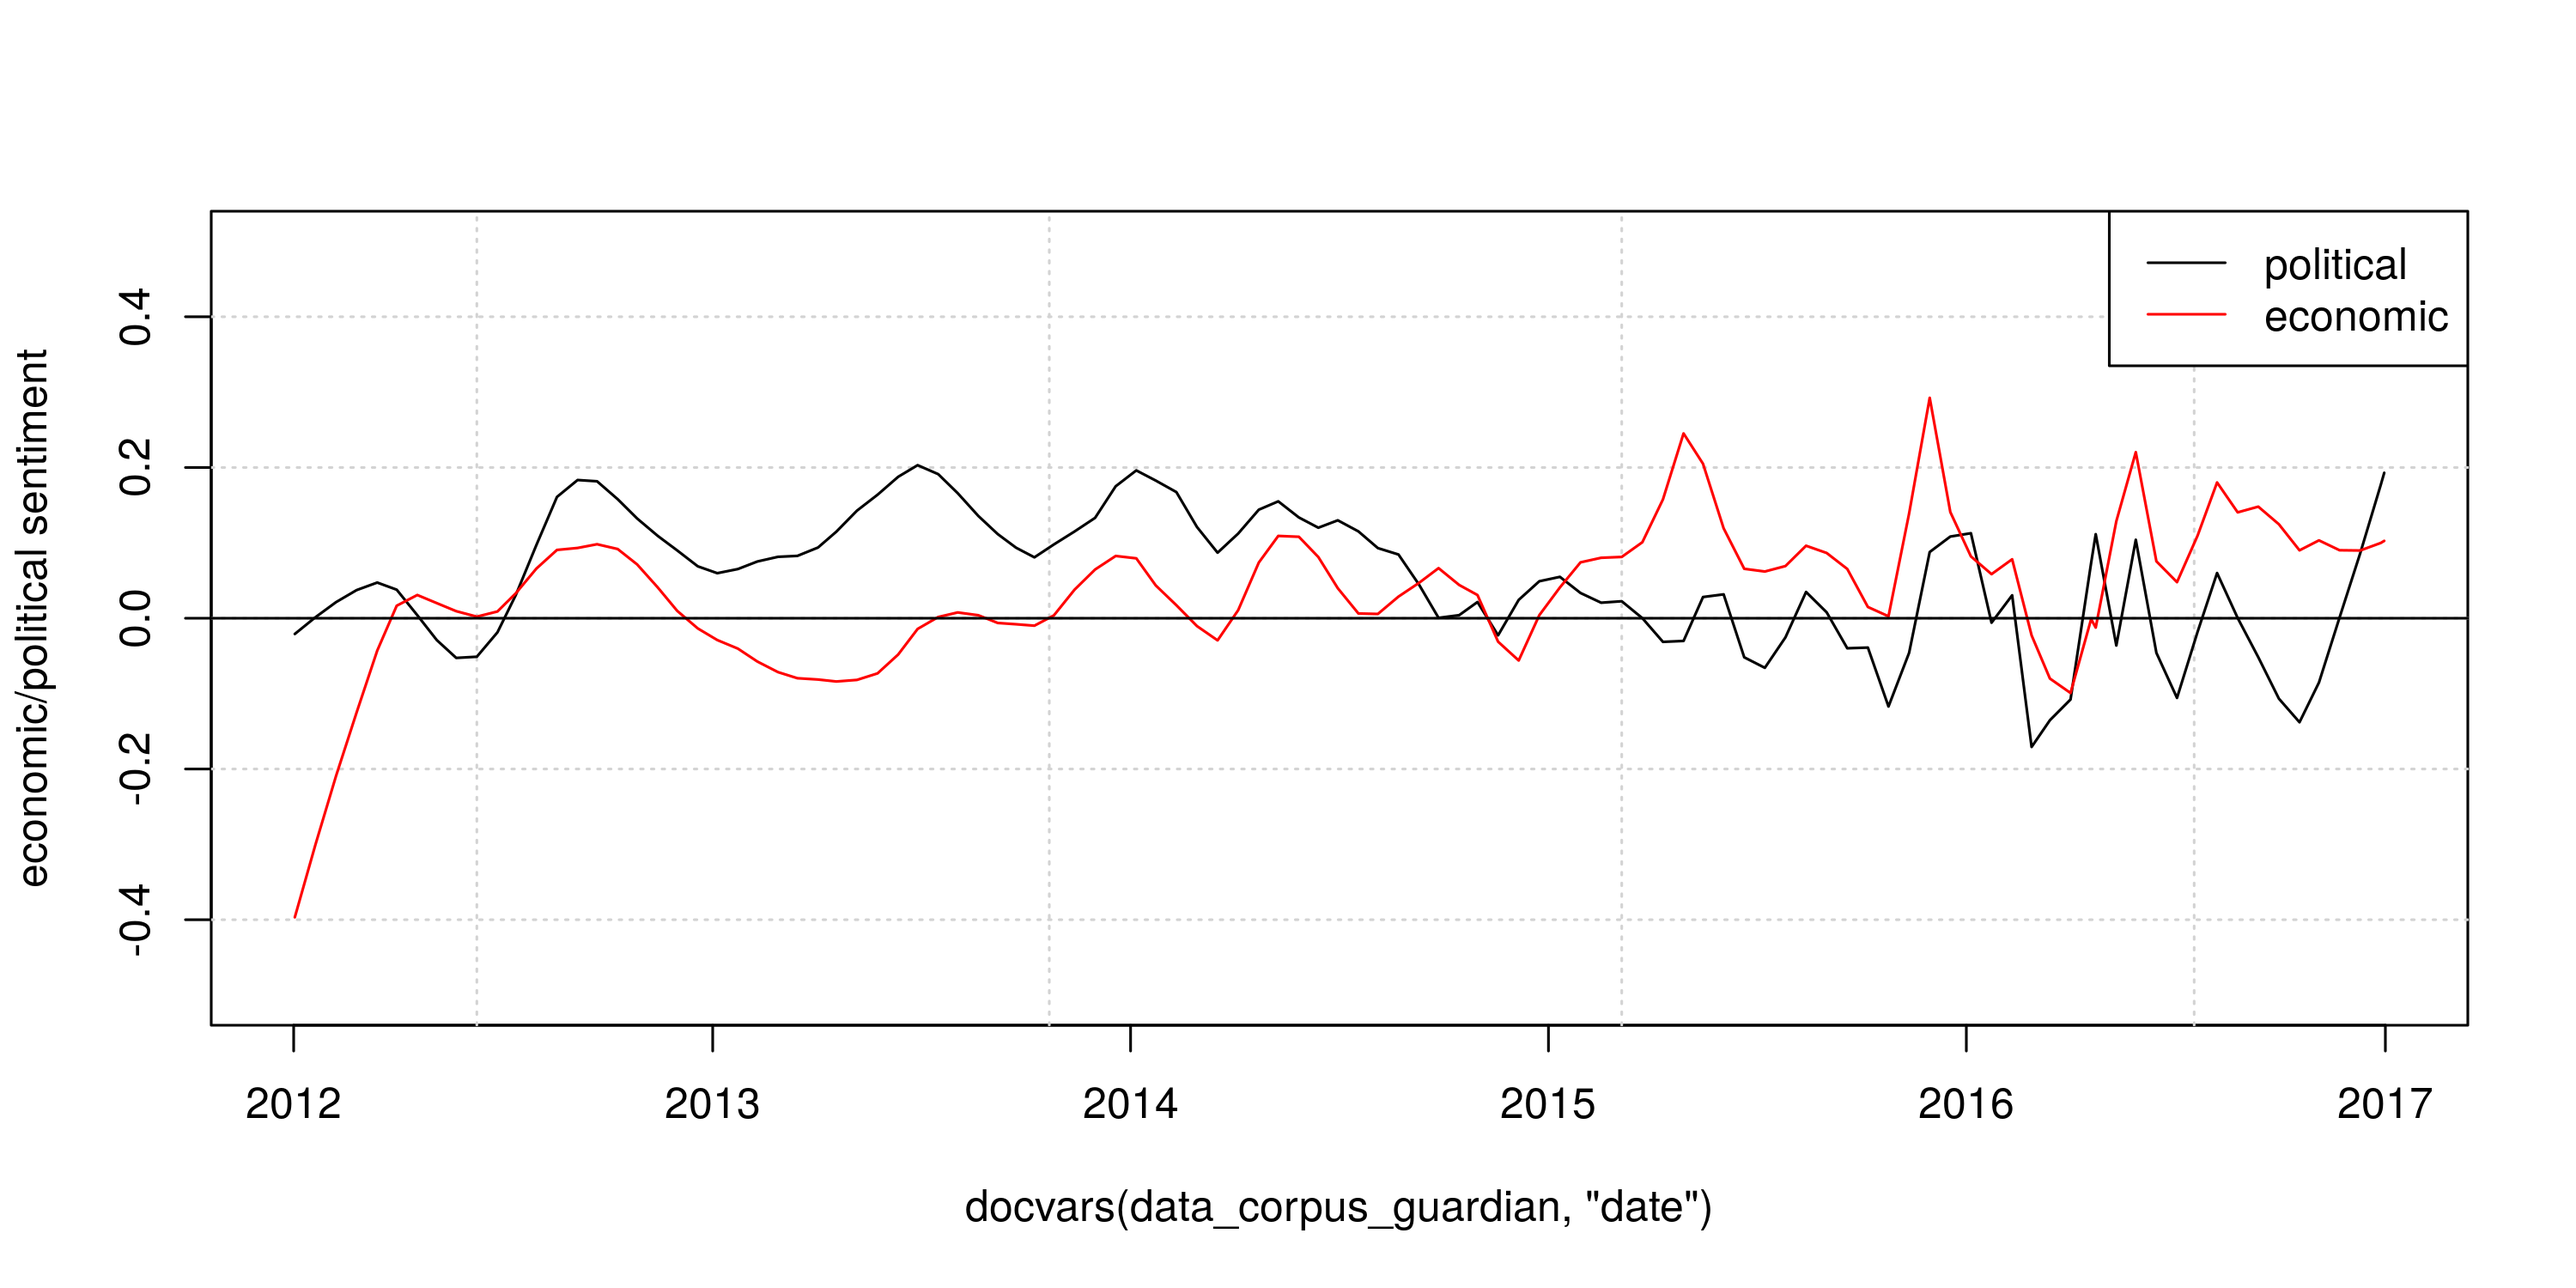
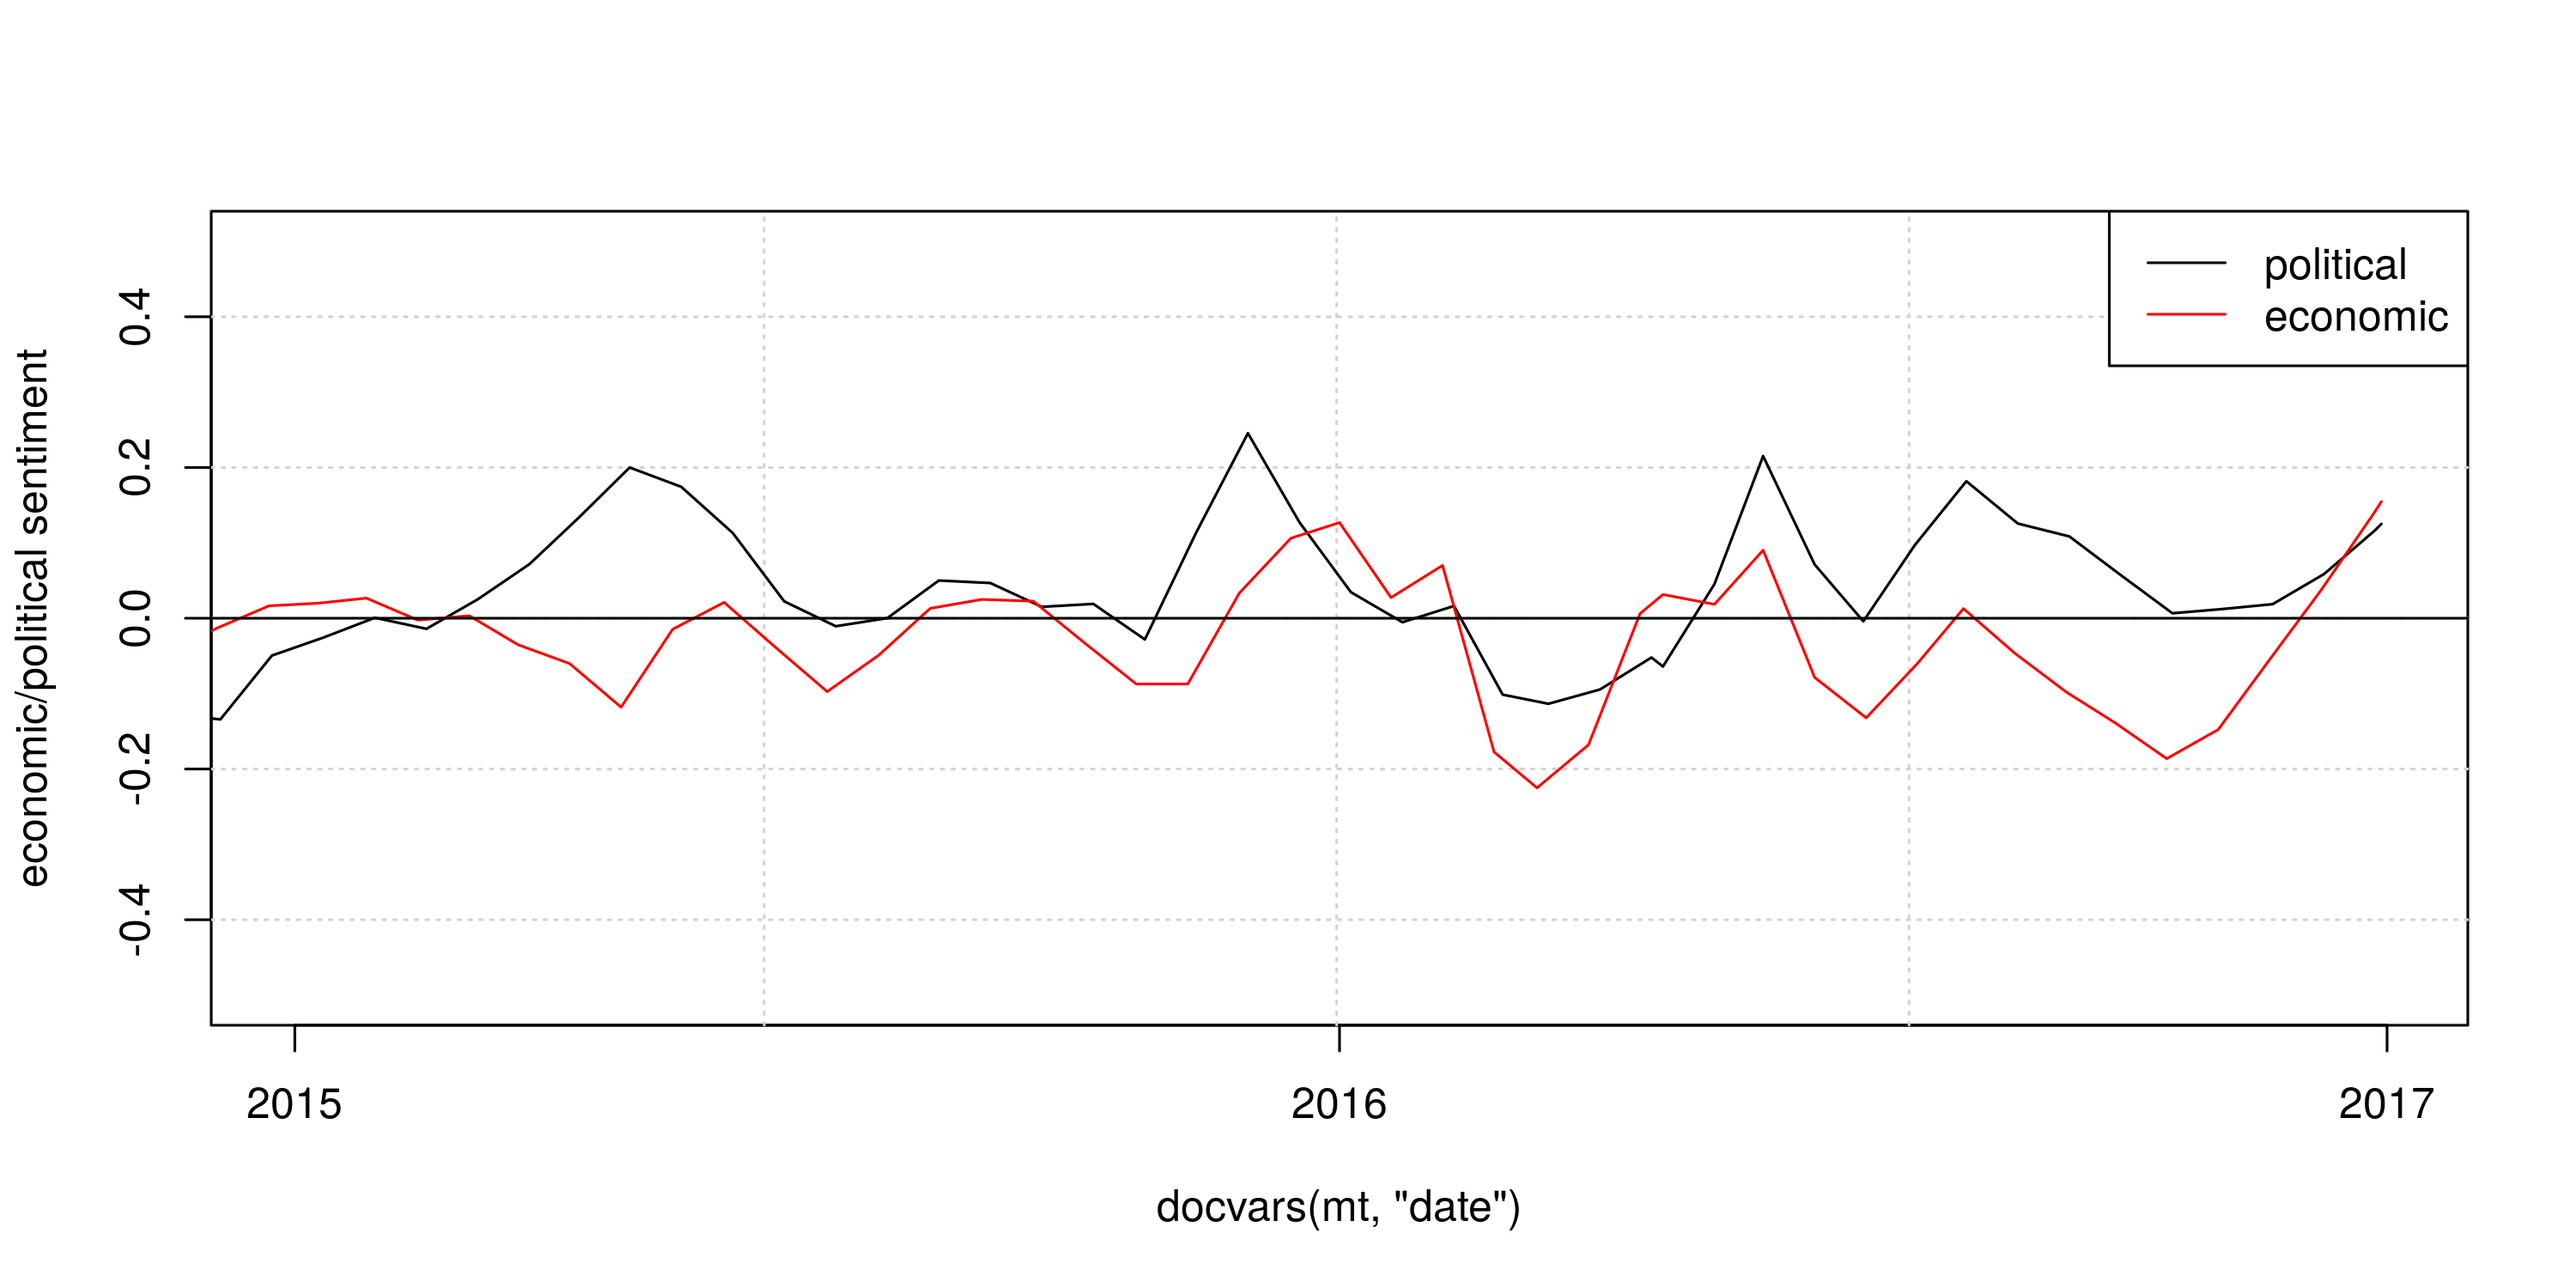
Update man

diff --git a/README.md b/README.md
@@ -35,19 +35,30 @@ toks_train <- tokens(corp_train, remove_punct = TRUE)
 mt_train <- dfm(toks_train, remove = stopwords())
 mt_train <- dfm_remove(mt_train, c('*.uk', '*.com', '*.net', '*.it', '*@*'))
 mt_train <- dfm_trim(mt_train, min_count = 10)
+```
 
+    ## Warning in dfm_trim.dfm(mt_train, min_count = 10): min_count is deprecated,
+    ## use min_termfreq
+
+``` r
 #' sentiment model on economy
 eco <- head(char_keyness(toks_train, 'econom*'), 500)
-lss_eco <- textmodel_lss(mt_train, seedwords('pos-neg'), pattern = eco)
+```
 
-head(lss_eco$beta) # most positive words
+    ## Warning in dfm_trim.dfm(m, min_count = min_count): min_count is deprecated,
+    ## use min_termfreq
+
+``` r
+lss_eco <- textmodel_lss(mt_train, seedwords('pos-neg'), features = eco)
+
+head(coef(lss_eco)) # most positive words
 ```
 
     ## opportunity    positive     success       force     reasons      future 
     ##  0.04726892  0.04640303  0.04397306  0.04192484  0.04082709  0.03111128
 
 ``` r
-tail(lss_eco$beta) # most negative words
+tail(coef(lss_eco)) # most negative words
 ```
 
     ##      caused        debt      blamed    negative        poor         bad 
@@ -56,16 +67,22 @@ tail(lss_eco$beta) # most negative words
 ``` r
 # sentiment model on politics
 pol <- head(char_keyness(toks_train, 'politi*'), 500)
-lss_pol <- textmodel_lss(mt_train, seedwords('pos-neg'), pattern = pol)
+```
 
-head(lss_pol$beta) # most positive words
+    ## Warning in dfm_trim.dfm(m, min_count = min_count): min_count is deprecated,
+    ## use min_termfreq
+
+``` r
+lss_pol <- textmodel_lss(mt_train, seedwords('pos-neg'), features = pol)
+
+head(coef(lss_pol)) # most positive words
 ```
 
     ##      views      faith    playing      force    reasons       bill 
     ## 0.04225050 0.04208257 0.04206229 0.04192484 0.04082709 0.03781205
 
 ``` r
-tail(lss_pol$beta) # most negative words
+tail(coef(lss_pol)) # most negative words
 ```
 
     ##       power uncertainty     turmoil        lack     happens        talk 
@@ -81,22 +98,30 @@ mt <- dfm(data_corpus_guardian)
 ### Economic sentiment
 
 ``` r
-sent_eco <- scale(predict(lss_eco, newdata = mt))
-plot(docvars(data_corpus_guardian, 'date'), sent_eco, pch = 16, col = rgb(0, 0, 0, 0.1),
+pred_eco <- as.data.frame(predict(lss_eco, newdata = mt, density = TRUE))
+pred_eco$date <- docvars(mt, 'date')
+pred_eco <- subset(pred_eco, density > quantile(density, 0.25))
+
+plot(pred_eco$date, pred_eco$fit, pch = 16, col = rgb(0, 0, 0, 0.1),
      ylim = c(-1, 1), ylab = 'economic sentiment')
-lines(lowess(docvars(data_corpus_guardian, 'date'), sent_eco, f = 0.05), col = 1)
+lines(lowess(pred_eco$date, pred_eco$fit, f = 0.05), col = 1)
 abline(h = 0)
 ```
 
-![](man/images/unnamed-chunk-6-1.png)
+![](man/images/unnamed-chunk-6-1.png) Show in New WindowClear OutputExpand/Collapse Output
+
+Show in New WindowClear OutputExpand/Collapse Output
 
 ### Political sentiment
 
 ``` r
-sent_pol <- scale(predict(lss_pol, newdata = mt))
-plot(docvars(data_corpus_guardian, 'date'), sent_pol, pch = 16, col = rgb(0, 0, 0, 0.1),
-      ylim = c(-1, 1), ylab = 'political sentiment')
-lines(lowess(docvars(data_corpus_guardian, 'date'), sent_pol, f = 0.05), col = 1)
+pred_pol <- as.data.frame(predict(lss_pol, newdata = mt, density = TRUE))
+pred_pol$date <- docvars(mt, 'date')
+pred_pol <- subset(pred_pol, density > quantile(density, 0.25))
+
+plot(pred_pol$date, pred_pol$fit, pch = 16, col = rgb(1, 0, 0, 0.1),
+     ylim = c(-1, 1), ylab = 'political sentiment')
+lines(lowess(pred_pol$date, pred_pol$fit, f = 0.05), col = 2)
 abline(h = 0)
 ```
 
@@ -104,14 +129,12 @@ abline(h = 0)
 
 ### Comparison
 
-The sentiment analysis models were trained on the same corpus with the same seed words, but they are sensitive to different subjects. We can see in the chart below that Guardian's framing of economy became positive in early 2015, while political sentiment were falling down gradually.
-
 ``` r
-plot(docvars(data_corpus_guardian, 'date'), rep(0, ndoc(data_corpus_guardian)),  
-     type = 'n', ylim = c(-0.5, 0.5), ylab = 'economic/political sentiment')
+plot(docvars(mt, 'date'), rep(0, ndoc(mt)), type = 'n', xlim = as.Date(c('2015-01-01', '2016-12-31')), 
+     ylim = c(-0.5, 0.5), ylab = 'economic/political sentiment')
 grid()
-lines(lowess(docvars(data_corpus_guardian, 'date'), sent_pol, f = 0.05), col = 1)
-lines(lowess(docvars(data_corpus_guardian, 'date'), sent_eco, f = 0.05), col = 2)
+lines(lowess(pred_eco$date, pred_eco$fit, f = 0.05), col = 1)
+lines(lowess(pred_pol$date, pred_pol$fit, f = 0.05), col = 2)
 abline(h = 0)
 legend('topright', lty = 1, col = 1:2, legend = c('political', 'economic'))
 ```
